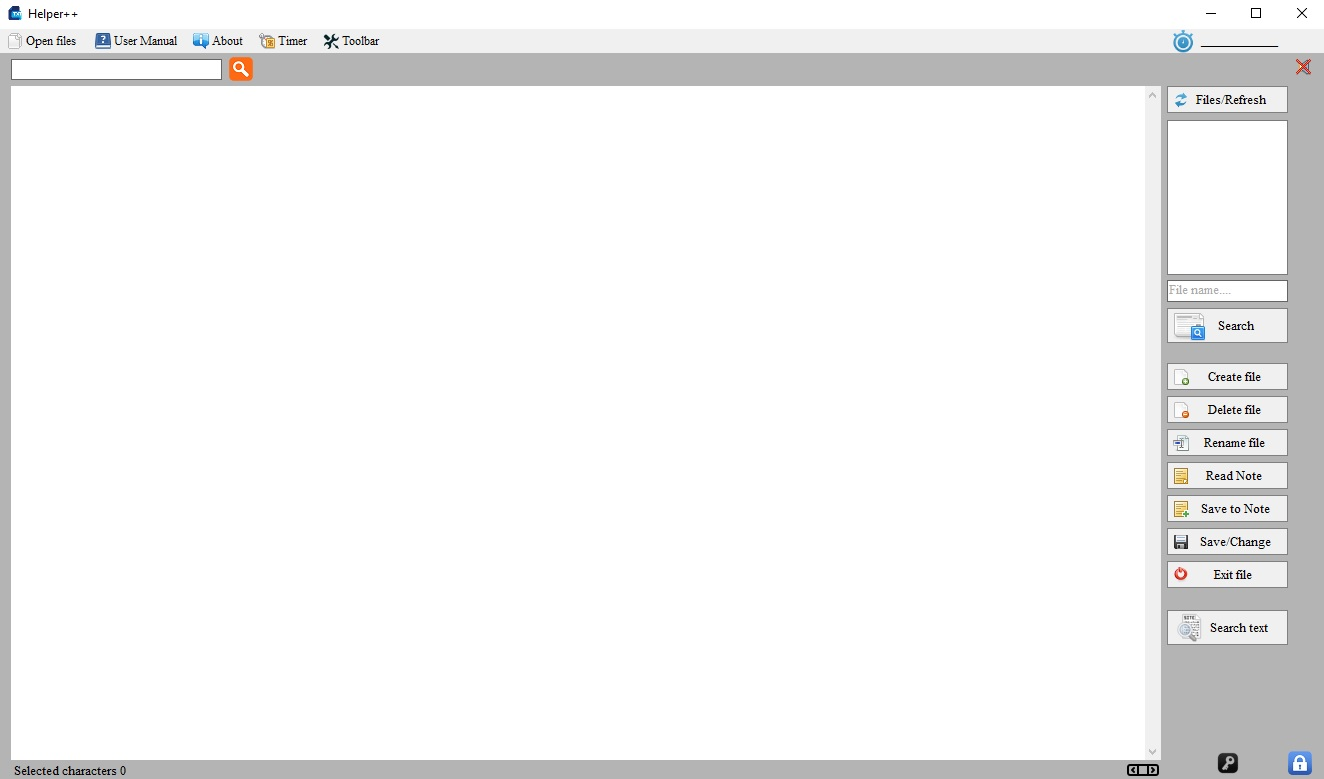
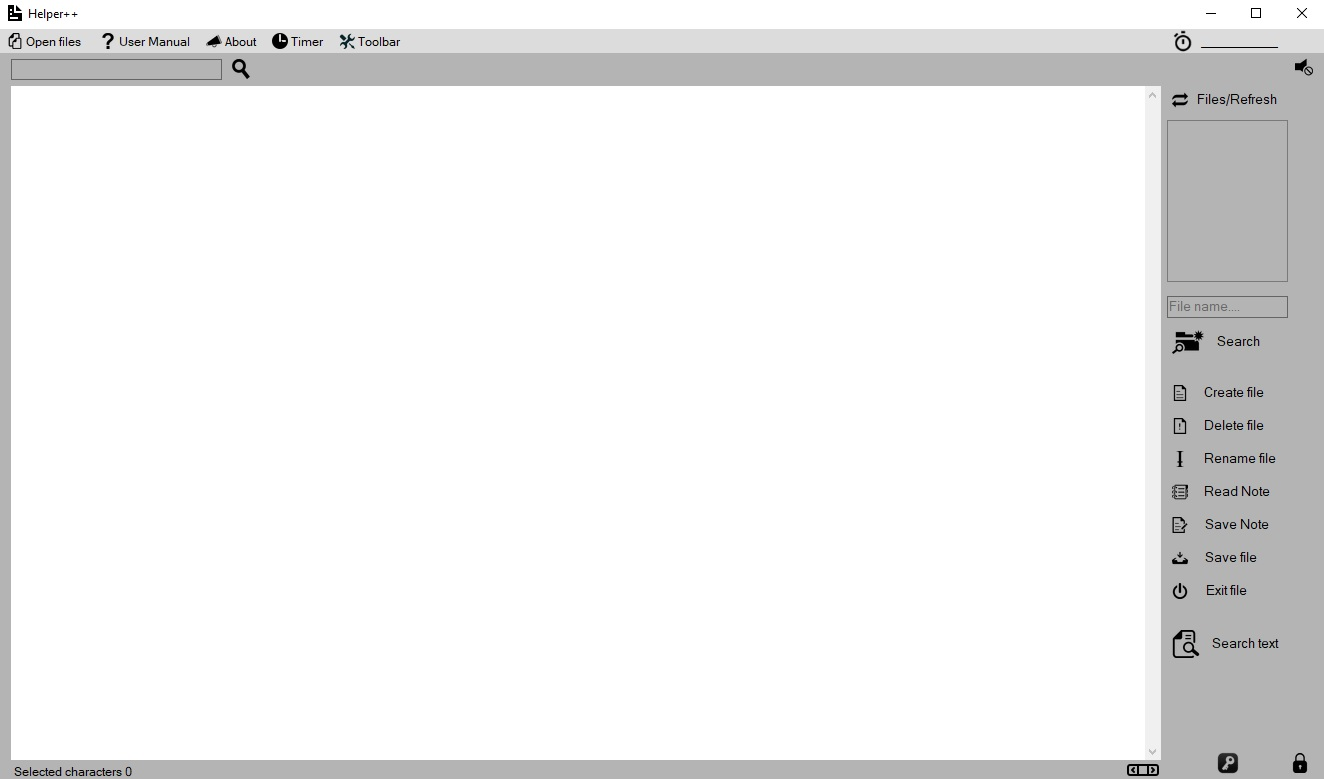
add

diff --git a/index.html b/index.html
@@ -76,9 +76,9 @@ Licensed by https://creativecommons.org/licenses/by/3.0/ ©
         <tr>
           <td>Windows 8, 10</td>
           <td>x64</td>
-          <td>359 kb</td>
-          <td>698 kb</td>
-          <td>1.4.2.7</td>
+          <td>317 kb</td>
+          <td>1092 kb</td>
+          <td>1.5.2.7</td>
           <td id="downloadCounterHelper++"></td>
         </tr>
     </table>
@@ -141,6 +141,12 @@ Licensed by https://creativecommons.org/licenses/by/3.0/ ©
         <td>Sep 23, 2020</td>
         <td>New UI design. Helper++ is twice faster than before.
            Now its possible to turn on or off horizontal scrollbar. In this update UI design and performance was in focus. Bug fixed caused by mouse hover sound.
+        </td>
+      </tr>
+      <tr>
+        <td>1.5.2.7</td>
+        <td>Oct 18, 2020</td>
+        <td>New UI design. Less is more.
         </td>
       </tr>
   </table>
